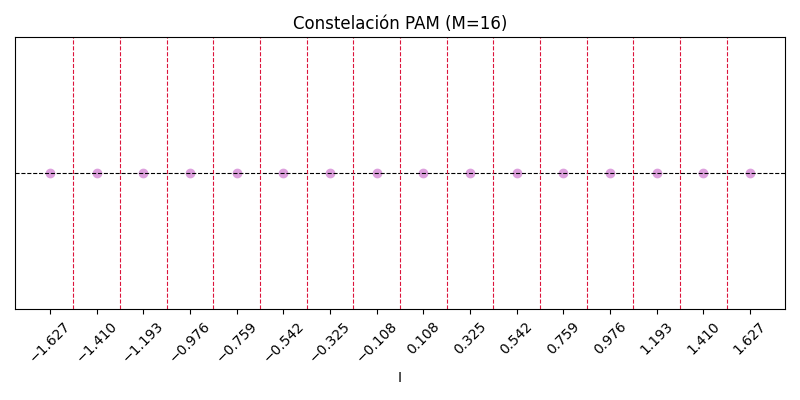
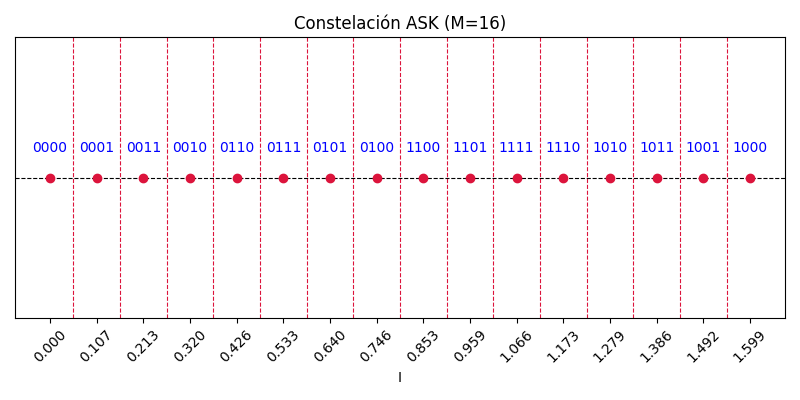
decisor psk, correccion graficos ask. falta qam corregir gray, decisor qam.

diff --git a/Constelacion.py b/Constelacion.py
@@ -1,6 +1,6 @@
 from enum import Enum
 
-import numpy as np
+from numpy.ma.core import indices
 
 from Modulaciones import *
 from graficadores import *
@@ -30,13 +30,12 @@ def validar_M(M):
 class Constelacion:
     # Elijo la constelación con un string, puede ser 'ASK', 'PSK', 'QAM', 'FSK'
     def __init__(self, d, M,constelacion):
+        validar_M(M)
         self.umbrales = None
         self.codigo = None
-        validar_M(M)
         self.d = d
         self.M = M
         self.tipoConstelacion = self.crear_simbolos(constelacion)
-
 
 
 
@@ -78,6 +77,90 @@ class Constelacion:
             simbolosCodificados[pos_codificados] = simbolo
             pos_codificados+=1
         return np.array(simbolosCodificados)
+
+
+    def decisor_PSK(self,posicion_recibida):
+        posicion_recibida = np.angle(posicion_recibida[:]) * 180/np.pi # agregar q si es maypr a 360 restarle 360
+        simbolos_estimado = np.zeros_like(posicion_recibida, dtype=complex)
+
+        posiciones = list(self.codigo.values())
+        indice = 0
+        for i in posicion_recibida:
+            if i <0:
+                i+= 360
+            j = 0
+
+            for umbral in self.umbrales:
+                if i <= umbral:
+                    simbolos_estimado[indice] = posiciones[j]
+                    break
+                elif i > umbral:
+                    j +=1
+                else:
+                    simbolos_estimado[indice] = posiciones[0]
+            indice +=1
+
+        return simbolos_estimado
+
+
+    def decisor_ASK(self,posicion_recibida):
+        simbolo_estimado =[]
+        posiciones = list(self.codigo.values())
+
+        for pos in posicion_recibida:
+            j = next((idx for idx, umbral in enumerate(self.umbrales) if pos <= umbral), 0)
+            simbolo_estimado.append(posiciones[j])
+
+        simbolo_estimado = np.array(simbolo_estimado)
+
+
+
+    def decisor_QAM(self,posicion_recibida):
+        #simbolos_estimado = np.zeros_like(posicion_recibida, dtype=complex)
+        umbrales = np.sort(np.real(self.umbrales))
+        '''
+        def hallar_umbral_superior(posicion , umbrales):
+            contador = 0
+            umbrales = np.sort(self.umbrales)
+            while posicion <= umbrales[contador]:
+                contador +=1
+            return contador
+        '''
+        indice = 0
+
+        for i in posicion_recibida:
+
+            x = np.real(i)
+            y = np.imag(i)
+
+            #forma 1
+            #indice_x =hallar_umbral_superior(x,self.umbrales)
+            #indice_y = hallar_umbral_superior(y,self.umbrales)
+
+            #forma 2
+            simbolos_estimado = np.zeros_like(posicion_recibida, dtype=complex)
+            posiciones = list(self.codigo.values())
+            contador_y = 0
+
+
+            for a in umbrales:
+                contador_x = 0
+                for b in umbrales:
+
+                    if x <= b and y <= a:
+                        simbolos_estimado[indice] = posiciones[contador_x + contador_y*4]
+                        break
+                    elif x > b and y > a:
+                        simbolos_estimado[indice] = posiciones[contador_x + contador_y * 4]
+                        break
+                    else:
+                        contador_x +=1
+                contador_y +=1
+
+            indice += 1
+        return simbolos_estimado
+        #bueno no funca, mañana veo de si hay forma mas optima, para mi con lo de usarlo en coordenadas sea mas facil
+        #o de hacer con mas if menos iteraciones para recorrer la matriz.
 
 
 

diff --git a/graficadores.py b/graficadores.py
@@ -12,7 +12,6 @@ def graficar_psk(ang_umbrales, psk_gray_map):
 
     # Graficar símbolos PSK
     for gray,sym in psk_gray_map.items():
-        print(sym)
         plt.plot(sym.real, sym.imag, 'o',color = 'crimson', label=f'Gray: {format(gray, f"0{int(np.log2(len(psk_gray_map)))}b")}')
         plt.text(sym.real * 1.1, sym.imag * 1.1, f'{format(gray, f"0{int(np.log2(len(psk_gray_map)))}b")}',
                  color='blue', fontsize=10, ha='center')
@@ -38,12 +37,55 @@ def graficar_psk(ang_umbrales, psk_gray_map):
     # plt.legend(loc='upper right', fontsize=8)
     plt.show()
 
-def graficar_ask(symbols, ang_umbrales, psk_gray_map):
-    return
+def graficar_ask(umbrales, gray_map):
+    symbols = list(gray_map.values())
+    M = len(symbols)
+    plt.figure(figsize=(8, 4))
+    plt.axhline(0, color='k', linewidth=0.8, linestyle='--')
+
+    for pos in umbrales:
+        plt.axvline(pos, color='crimson', linewidth=0.8, linestyle='--')
+
+    for gray,sym in gray_map.items():
+        plt.plot(sym.real, sym.imag, 'o',color = 'crimson', label=f'Gray: {format(gray, f"0{int(np.log2(len(gray_map)))}b")}')
+        plt.text(sym.real * 1, sym.imag +0.01, f'{format(gray, f"0{int(np.log2(len(gray_map)))}b")}',
+                 color='blue', fontsize=10, ha='center')
+    plt.title(f'Constelación ASK (M={M})')
+    plt.xlabel('I')
+    plt.yticks([])
+    plt.xticks(symbols, fontsize=10, rotation=45)
+    plt.grid(False)
+    plt.tight_layout()
+    plt.savefig(f'results/{M}-PAM.png')
+    plt.show()
 
 
-def graficar_fsk(symbols, ang_umbrales, psk_gray_map):
+def graficar_fsk(mbrales, gray_map):
     return
 
-def graficar_qam(symbols, ang_umbrales, psk_gray_map):
-    return
+def graficar_qam(umbrales, gray_map):
+    symbols = list(gray_map.values())
+
+    M = len(symbols)
+
+    plt.axhline(0, color='k', linewidth=0.8, linestyle='--')
+    plt.axvline(0, color='k', linewidth=0.8, linestyle='--')
+    for i in umbrales.real:
+        plt.axhline(i, color='crimson', linestyle='--', lw=1)
+        plt.axvline(i, color='crimson', linestyle='--', lw=1)
+
+    
+    for gray, sym in gray_map.items():
+        sym = complex(sym)
+        plt.plot(sym.real, sym.imag, 'o', color='crimson',
+                 label=f'Gray: {format(gray, f"0{int(np.log2(len(gray_map)))}b")}')
+        plt.text(sym.real * 1, sym.imag +0.05, f'{format(gray, f"0{int(np.log2(len(gray_map)))}b")}',
+                 color='blue', fontsize=10, ha='center')
+    
+    plt.title(f'Constelación QAM (M={M})')
+    plt.xlabel('I')
+    plt.xlabel('Q')
+    # plt.grid(True)
+    plt.axis('equal')
+    plt.savefig(f'results/{M}-QAM.png')
+    plt.show()

diff --git a/Modulaciones.py b/Modulaciones.py
@@ -22,11 +22,12 @@ def binary_to_gray(binary):
     return binary ^ (binary >> 1)
 
 def ask(d, M):
-    symbols = np.arange(-((M - 1) / 2), ((M - 1) / 2) + 1) * d
-    # symbols = normalizar_constelacion(symbols)
-    # symbols = np.real(symbols)
+    symbols = np.arange(0, (((M - 1) / 2) + 1) * 2) * d
+    n=len(symbols)
+    symbols = normalizar_constelacion(symbols)
+    symbols = np.real(symbols)
     d_norm = symbols[0]-symbols[1] # lo harcodeo
-    umbrales= symbols[1:] + (d_norm / 2)
+    umbrales= symbols[1:n-1] + (d_norm / 2)
 
     binary_labels = np.arange(M)  # Etiquetas binarias [0, 1, ..., M-1]
     gray_labels = [binary_to_gray(b) for b in binary_labels]
@@ -54,22 +55,44 @@ def psk(d, M):
 
     return gray_map,ang_umbrales
 
+
 def qam(d, M):
-    return
+    if M == 2:
+        # Caso especial para 2-QAM (idéntico a 2-PSK)
+        symbols = np.array([-d / 2, d / 2])
+    else:
+        # Constelación cuadrada para M-QAM
+        size = int(np.sqrt(M))
+        x, y = np.meshgrid(np.arange(size) * d, np.arange(size) * d)
+        x = x.flatten() - ((size - 1) / 2) * d
+        y = y.flatten() - ((size - 1) / 2) * d
+        symbols = x + 1j * y
+
+    symbols = normalizar_constelacion(symbols)
+
+    # Calcular el valor normalizado
+    size = int(np.sqrt(M))
+    d_norm = symbols[0] - symbols[1]
+
+    # Umbrales (para demodulación, en este caso, se usan para el mapeo)
+    umbrales = np.arange(1, size)
+    umbrales = umbrales * d_norm - (size / 2) * d_norm
+
+    # Generar etiquetas binarias y convertirlas a Gray
+    binary_labels = np.arange(M)
+    gray_labels = [binary_to_gray(b) for b in binary_labels]
+
+    # Mapeo entre códigos de Gray y los símbolos en la constelación
+    gray_map = dict(zip(gray_labels, symbols))
+
+    return gray_map, umbrales
+
 
 def fsk(d, M):
-    return
+    frecuencias = np.arange(M) * d
+    binary_labels = np.arange(M)
+    gray_labels = [binary_to_gray(b) for b in binary_labels]
+    gray_map = dict(zip(gray_labels, frecuencias))
+    return gray_map, frecuencias
 
 
-
-# d=2
-# M = 16
-# #symbols, umbrales, pam_gray_map = pam(d, M)
-# umbrales, psk_gray_map = psk(d, M)
-#
-# # graficar_psk(umbrales,psk_gray_map)
-#
-# print("Umbrales:", umbrales)
-# print("Mapa PSK a Gray:")
-# for sym, gray in psk_gray_map.items():
-#     print(f"Símbolo: {sym:.2f}, Código de Gray: {format(gray, f'0{int(np.log2(M))}b')}")

diff --git a/montecarlo.py b/montecarlo.py
@@ -1,9 +1,9 @@
-
 from Constelacion import *
+import numpy as np
 
 
 d = 2
-M = 4
+M = 16
 k = int(np.log2(M))
 
 #n es la cantidad de veces q lo genera (va a ser cuantos arrays queremos hacer)
@@ -13,10 +13,50 @@ n_bits = M*2 #van a ser columnas
 bit_array_send = np.random.binomial(n,p,n_bits)
 
 
-
 modulacion = Constelacion(d,M,'PSK')
-
+#modulacion.graficar()
 simbolos_codificados = modulacion.codificarBits(bit_array_send)
+
+mod_qam = Constelacion(d,M,'QAM')
+simbolos_codif_qam = mod_qam.codificarBits(bit_array_send)
+
+
+EbNoDB = np.arange(0,10,1) #De 0 a 10dB
+EbNo = 10**(EbNoDB/10)
+
+sigma = 0.1
+std = np.sqrt(sigma)
+
+n_ruido = np.size(simbolos_codificados)
+ruido_x = np.random.normal(0,std,n_ruido)
+ruido_y =1j* np.random.normal(0, std, n_ruido)
+ruido = ruido_x + ruido_y
+
+simbolo_ruido_qam = simbolos_codif_qam + ruido
+
+simbolos_con_ruido = simbolos_codificados + ruido
+#print(np.angle(simbolos_codificados)*180/np.pi+180)
+#print(np.angle(simbolos_con_ruido)*180/np.pi+180)
+
+simbolos_decodificados = modulacion.decisor_PSK(simbolos_con_ruido)
+
+simbolos_decodif_qam = mod_qam.decisor_QAM(simbolo_ruido_qam)
+
+print('pos codificado',simbolos_codif_qam)
+print('angulos recibido',simbolo_ruido_qam)
+print('angulo decod',simbolos_decodif_qam)
+'''
+print('umbrales')
+print('angulos codificado',np.angle(simbolos_codificados)*180/np.pi)
+print('angulos recibido',np.angle(simbolos_con_ruido)*180/np.pi)
+print('angulo decod',np.angle(simbolos_decodificados)*180/np.pi)
+'''
+
+modQAM = Constelacion(d,M,'QAM')
+modASK = Constelacion(d,M,'ASK')
+
+modASK.graficar()
+modQAM.graficar()
 
 
 # #Empezamos con la PSK
